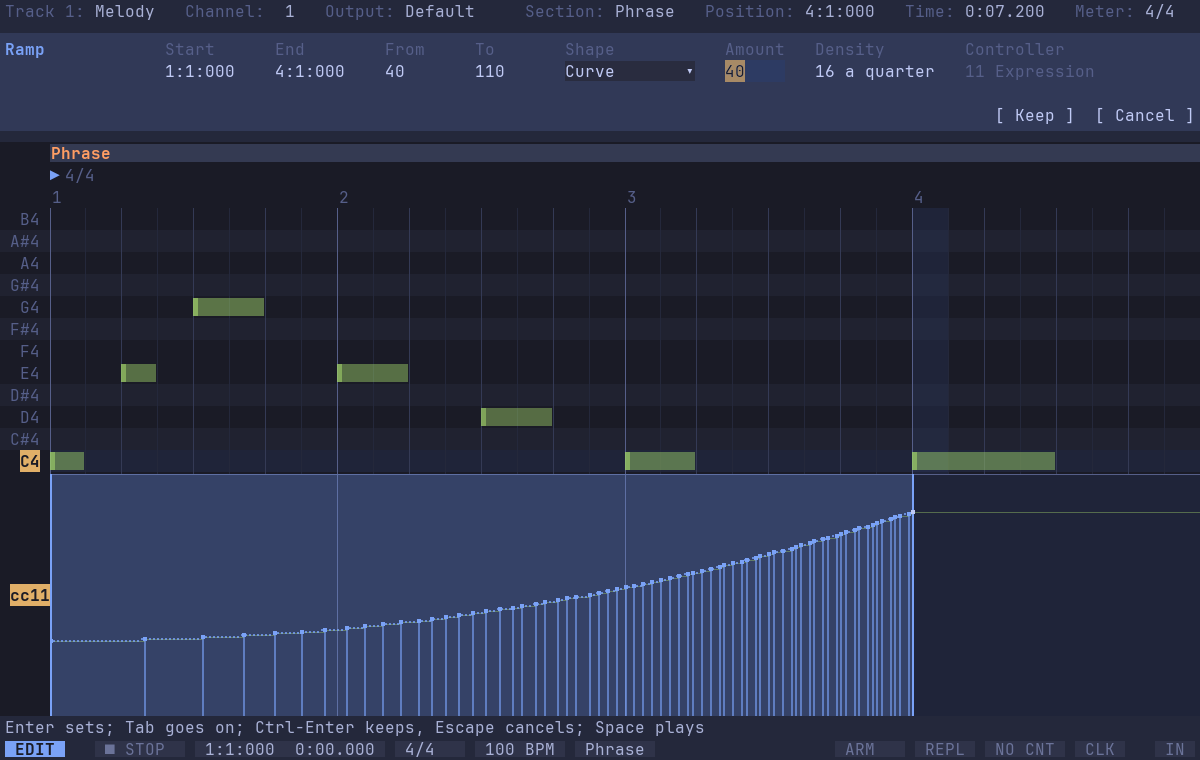
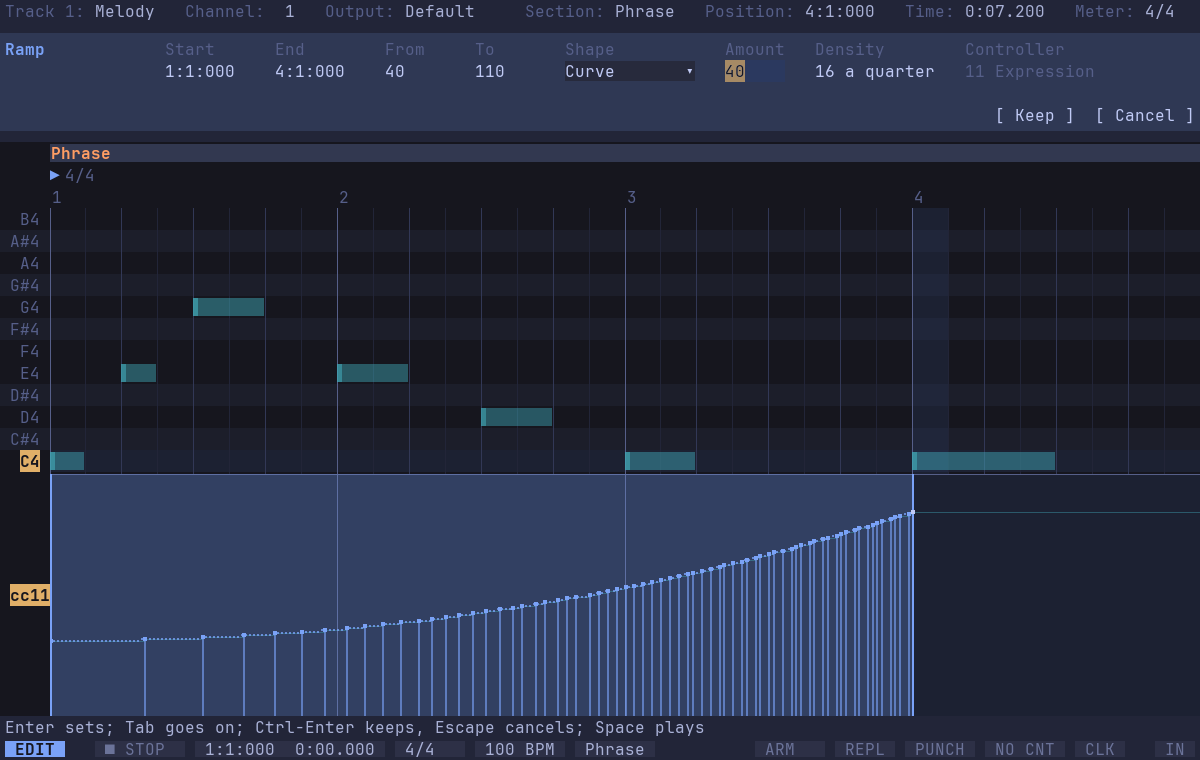
Draw the manual's pictures in the default theme, with a punch figure
The manual's offscreen renders now use the default theme, darker, rather
than dark by name, and the punch recording section gains a picture of an
armed range.

diff --git a/tests/ui/manual_test.cpp b/tests/ui/manual_test.cpp
@@ -243,7 +243,7 @@ TEST_CASE("render the manual's worked examples offscreen", "[.manual-images]")
     player.update(m.document.song());
     m.ws.setPlayer(&player);
     m.ws.resize(window->pixelWidth(), window->pixelHeight(), window->cellSize());
-    const auto theme = *builtInTheme("dark");
+    const auto theme = *builtInTheme(kDefaultTheme);
     const auto save = [&](std::string_view name)
     {
         window->draw(m.ws.frame(), theme);
@@ -307,6 +307,10 @@ TEST_CASE("render the manual's worked examples offscreen", "[.manual-images]")
     save("tracks");
     m.type(U",ms");
     save("metronome");
+    // The second section armed as a punch range, then cleared so the guides don't show it.
+    m.type(U"gagg]s,rp");
+    save("punch-range");
+    m.type(U",rP");
     m.type(U"gagg");
     guide("arrangement-guide",
           {{viewWidth, cell.height / 2, U"1 Track / position"},

diff --git a/tests/ui/window_test.cpp b/tests/ui/window_test.cpp
@@ -1506,7 +1506,7 @@ TEST_CASE("a sample of drum names and saved-map comparison", "[.sample][.manual-
         for (const auto c : keys)
             view.handle(c == U'\n' ? Key::of(NamedKey::Enter) : Key::typed(c), 0);
     };
-    const auto save = [&](const std::string& suffix, std::string_view theme = "dark")
+    const auto save = [&](const std::string& suffix, std::string_view theme = kDefaultTheme)
     {
         window->draw(view.frame(), *builtInTheme(theme));
         CHECK(window->saveFrame(base + suffix + ".bmp"));

diff --git a/docs/status.md b/docs/status.md
@@ -8,7 +8,7 @@ Where Modal stands, for whoever picks up the work next. Keep it current: update 
 
 ### Punch recording, step 2c: the manual, 25 November 2026
 
-The recording chapter has a new section, *Recording a passage again: punch-in* (`sec-punch-recording`): why to punch, the range and its keys with mnemonics (`p` for punch, the capital clearing as `, r A` does), the bracket and **PUNCH**, why the range isn't saved or undone and how it follows edits, then recording it: the lead-in, punch-out with playback carrying on, a worked example retaking a second verse, the rules at the edges, punching in while playing, and clearing to record from the marker again. *Preparing a recording* no longer says starting during playback is unsupported, and the chapter's closing paragraph lists punch recording as available. The key reference lists `, r p`, `, r l` (and `:punch`) and `, r P`. Both formats build with `tools/build-manual.cmake` (Quarto); the section renders in the HTML. No figure yet: ImageMagick, which `tools/manual-images.cmake` needs, isn't installed on this machine; a figure of the bracket could follow.
+The recording chapter has a new section, *Recording a passage again: punch-in* (`sec-punch-recording`): why to punch, the range and its keys with mnemonics (`p` for punch, the capital clearing as `, r A` does), the bracket and **PUNCH**, why the range isn't saved or undone and how it follows edits, then recording it: the lead-in, punch-out with playback carrying on, a worked example retaking a second verse, the rules at the edges, punching in while playing, and clearing to record from the marker again. *Preparing a recording* no longer says starting during playback is unsupported, and the chapter's closing paragraph lists punch recording as available. The key reference lists `, r p`, `, r l` (and `:punch`) and `, r P`. Both formats build with `tools/build-manual.cmake` (Quarto); the section renders in the HTML. With ImageMagick installed, the section gained a figure, `punch-range.png`, of the example song's second section armed; and the manual's illustrations are now drawn in the default theme, `darker`, rather than `dark` by name (`kDefaultTheme` in the two `[.manual-images]` renders), all fourteen regenerated with `tools/manual-images.cmake` and checked.
 
 **Pending.** Reading the section; then punch recording is complete.
 
